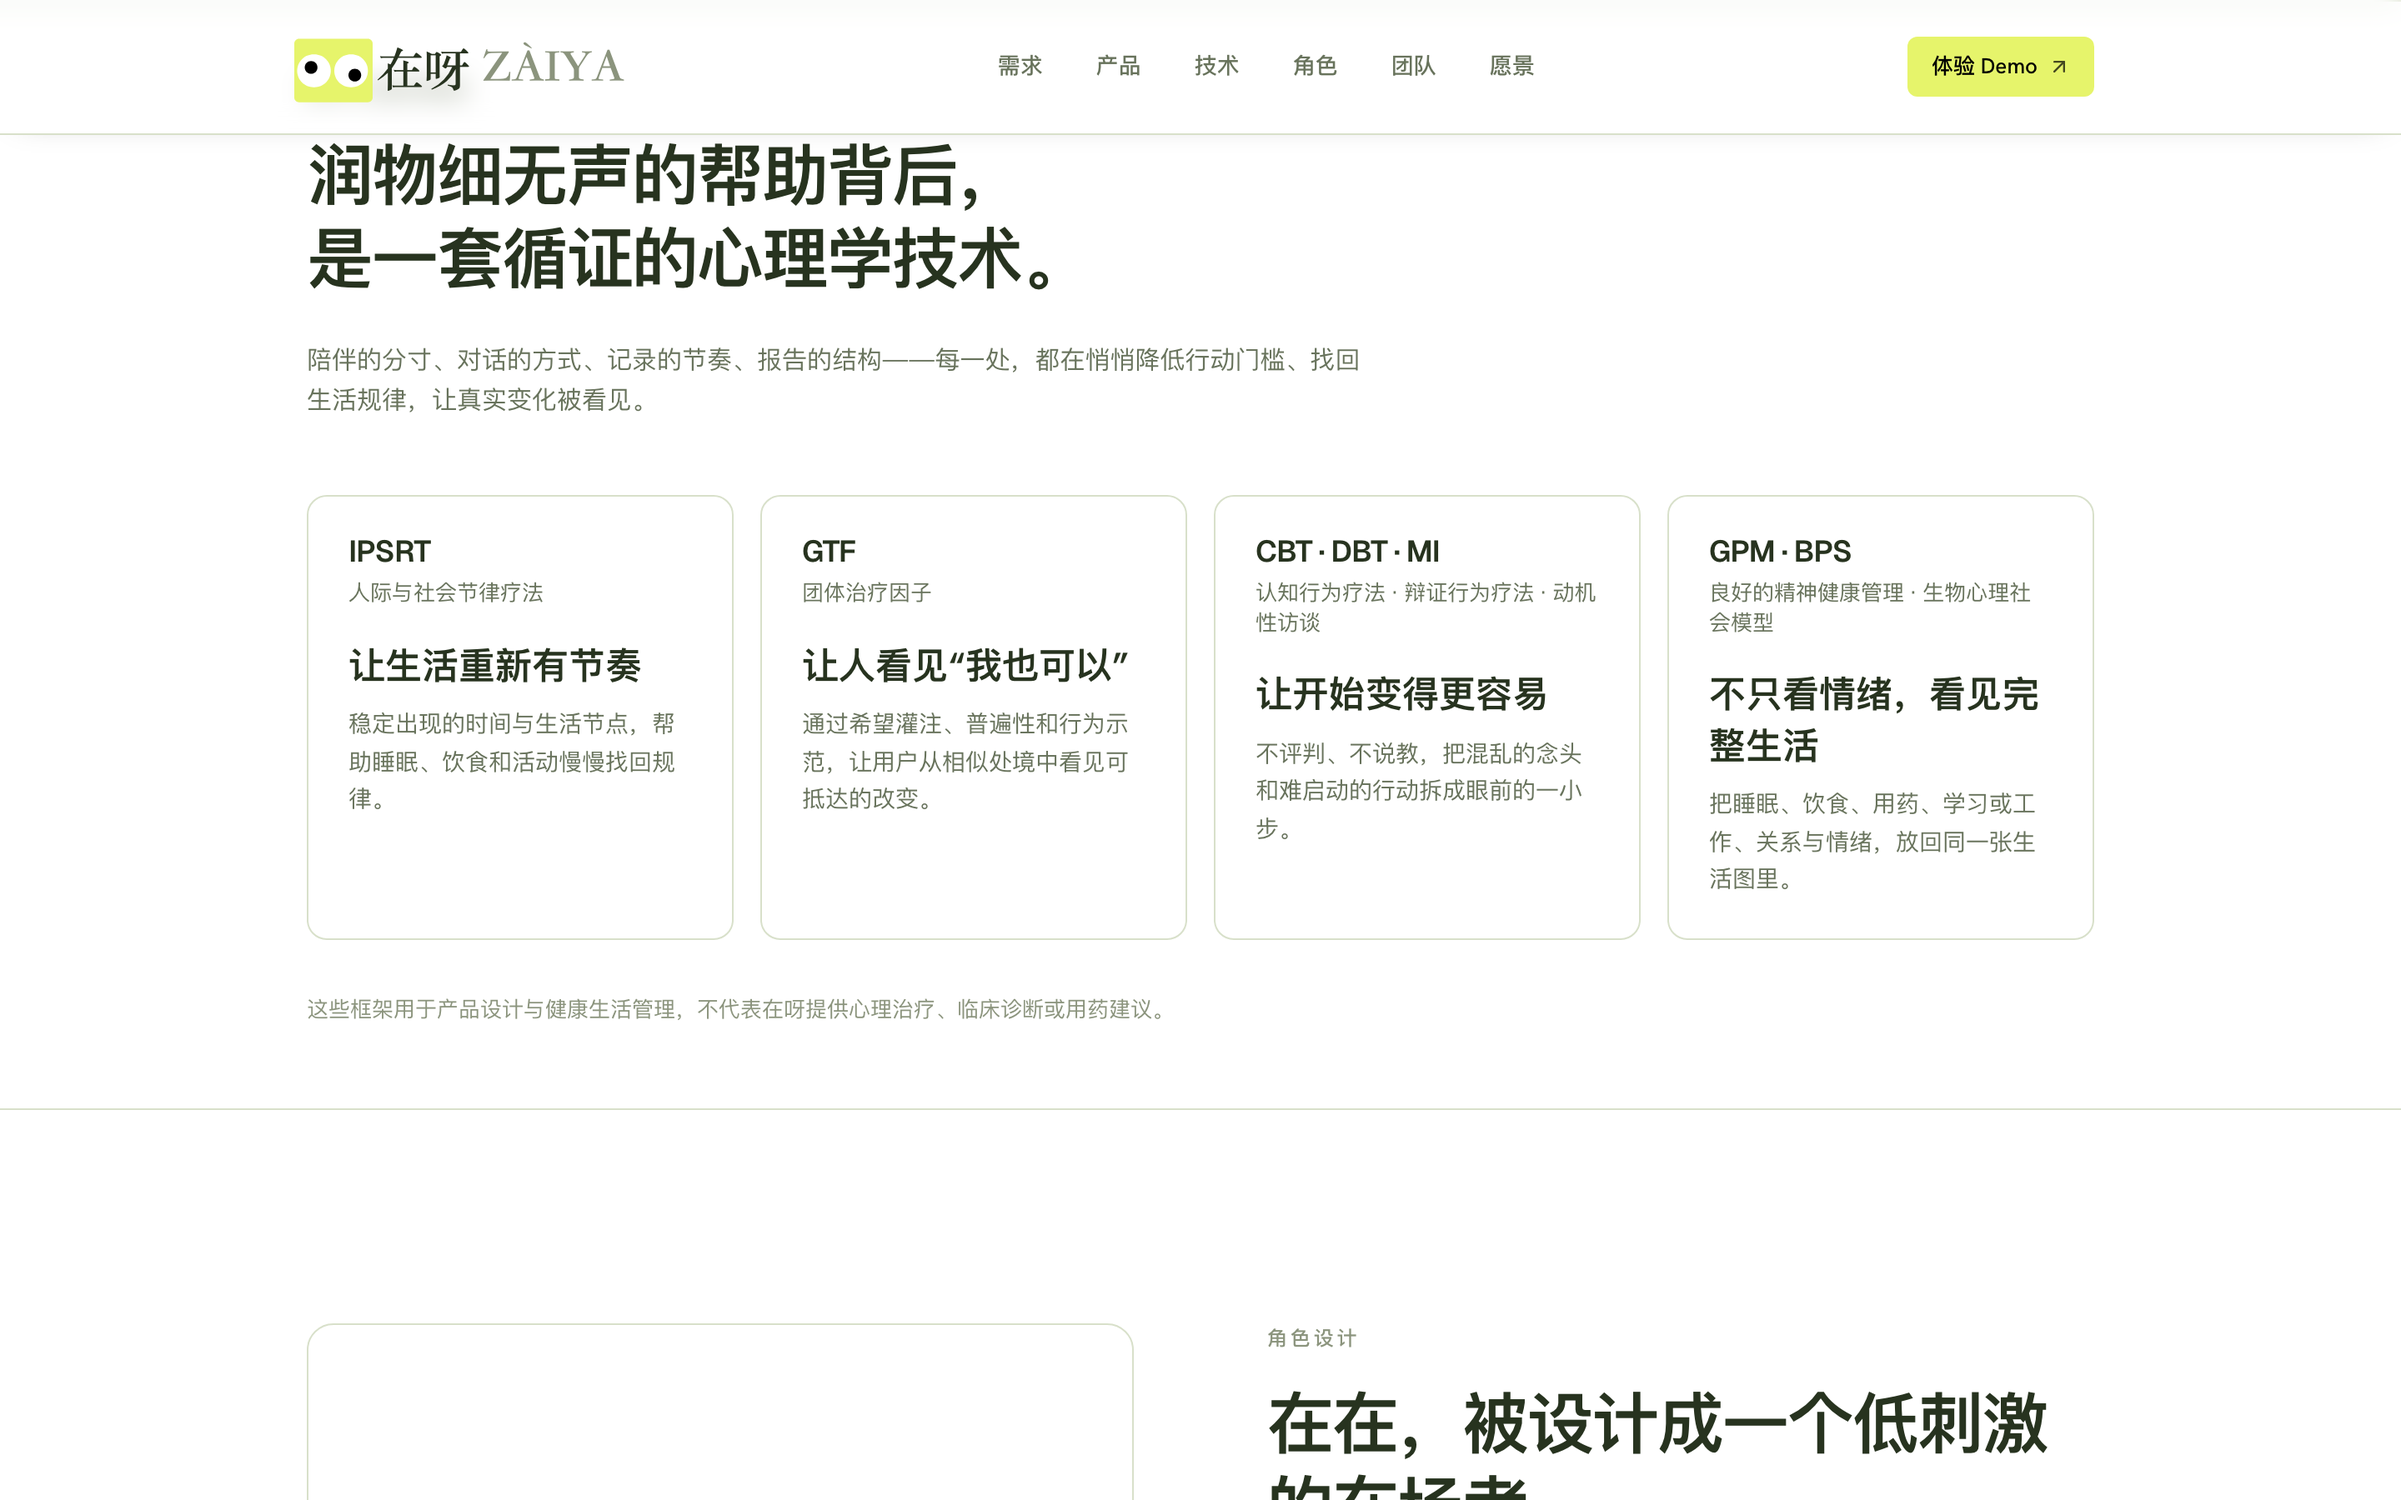
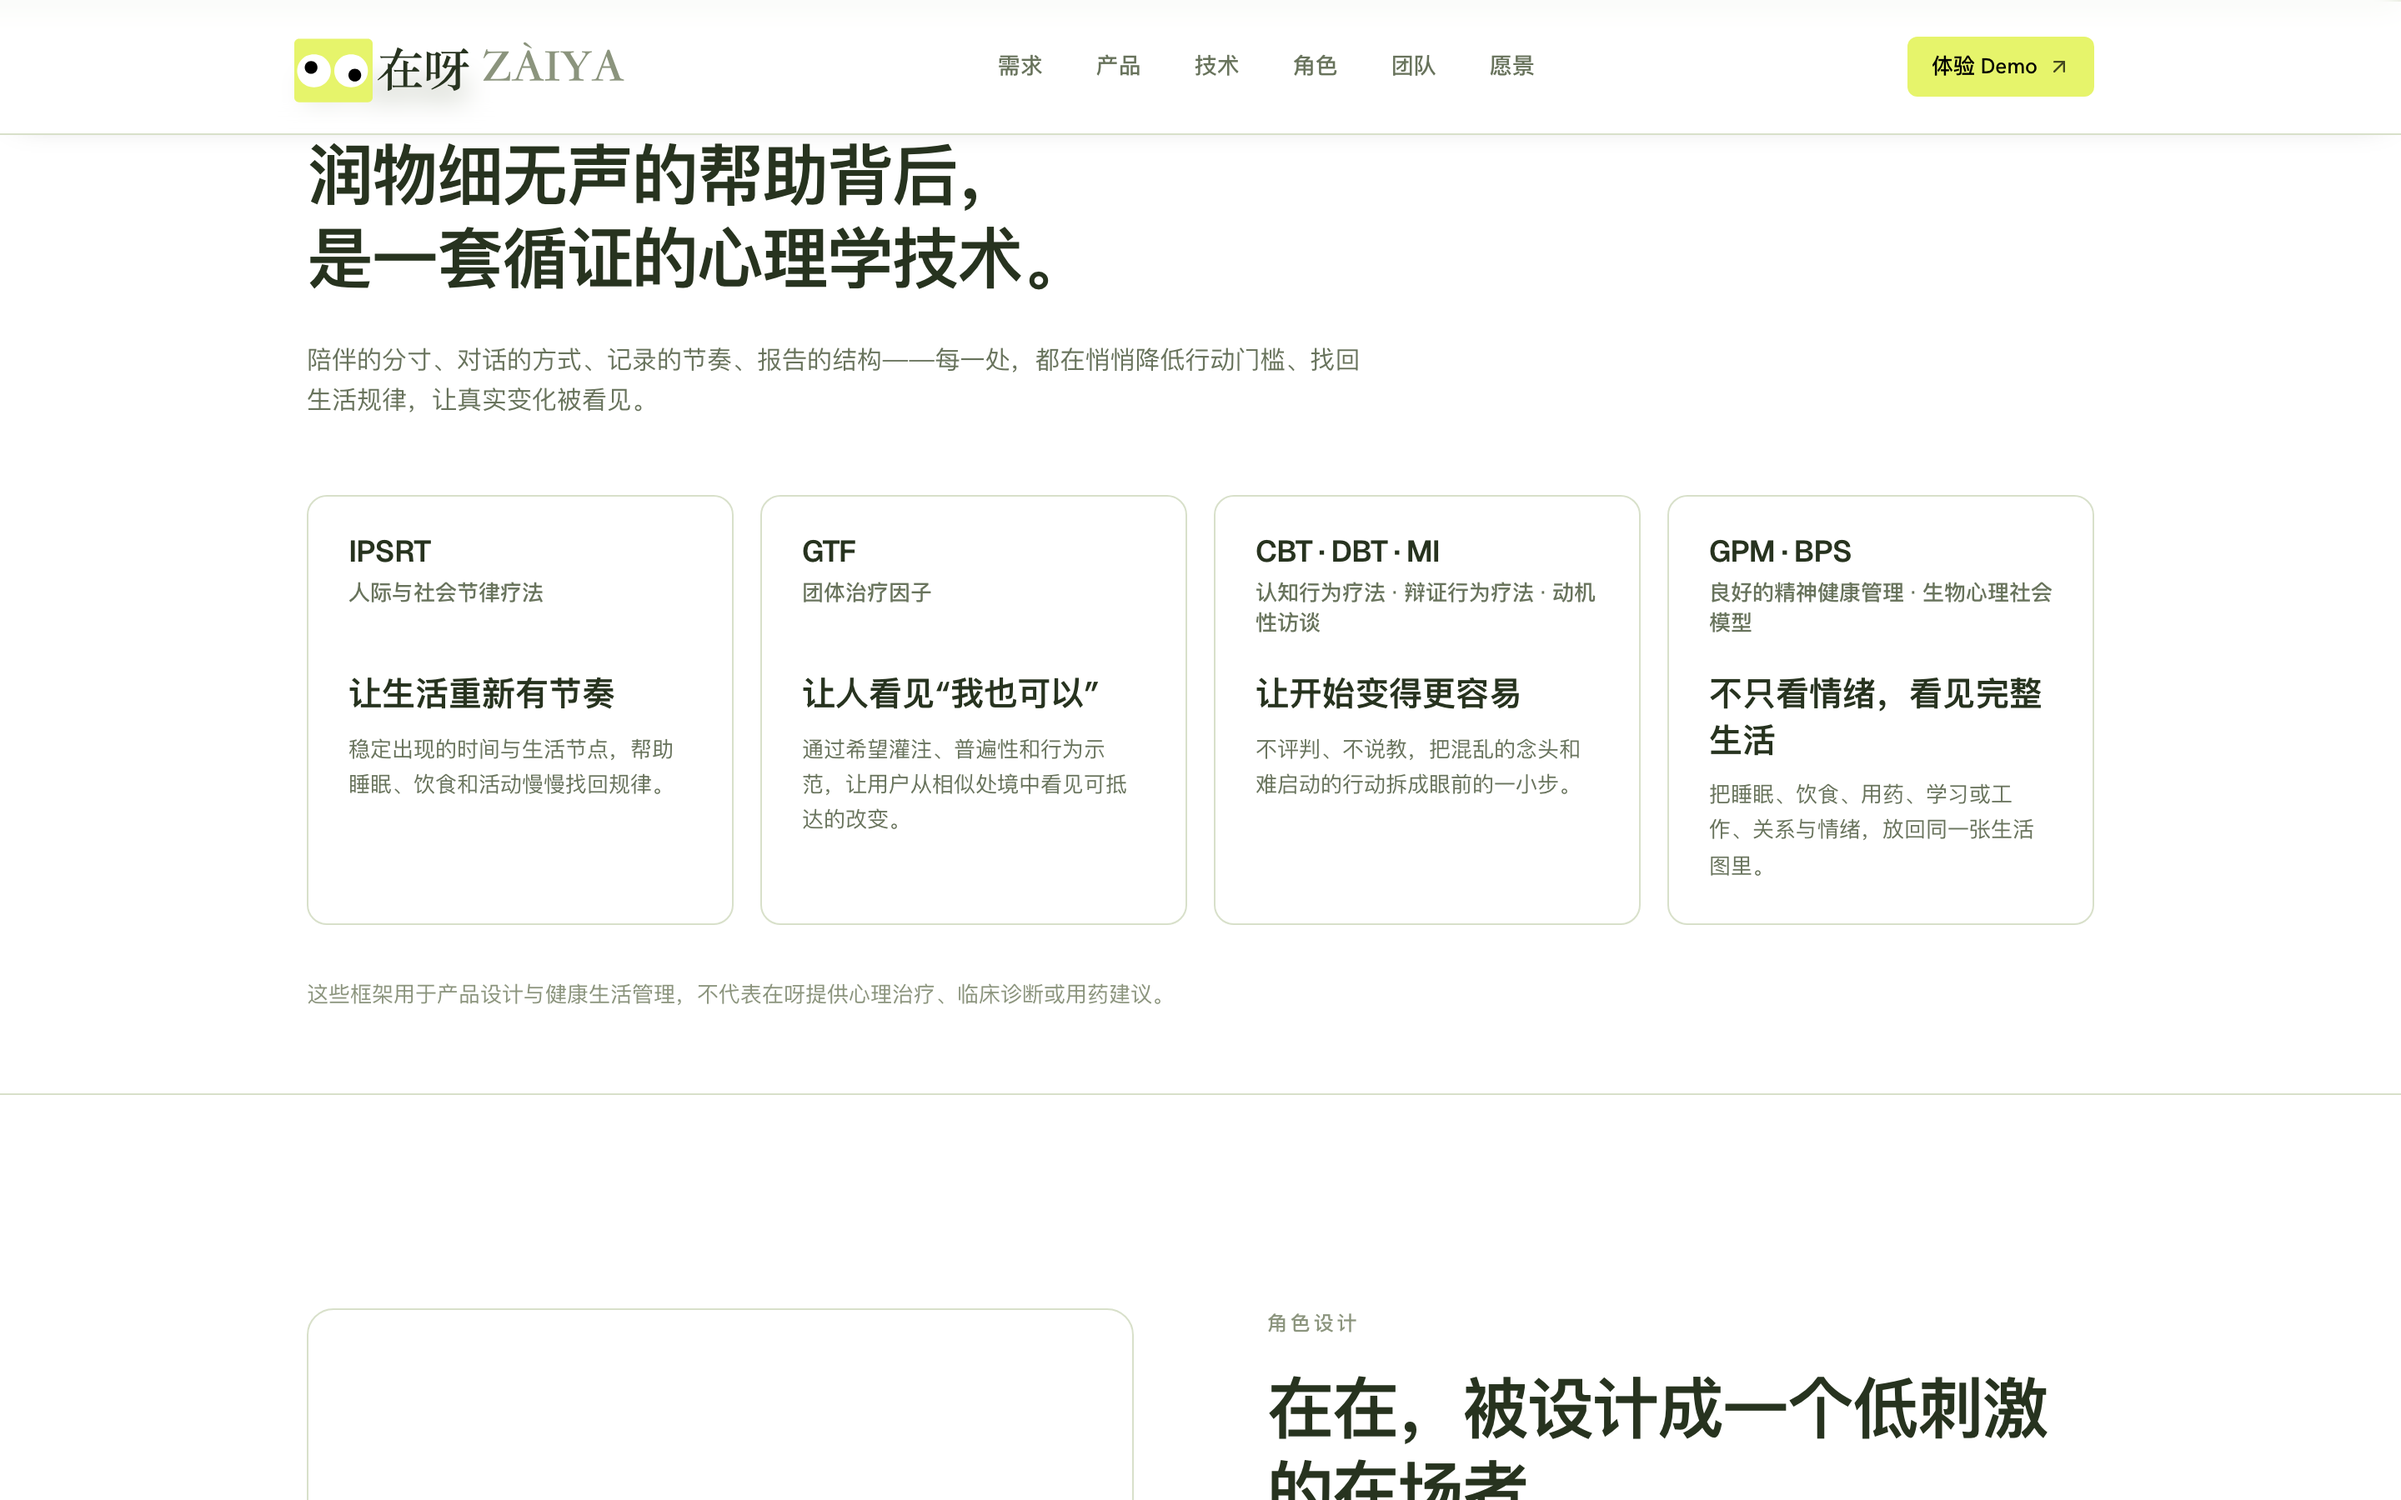
fix(clinical): align card value titles with equal-height header wrapper
四张卡片的「英文缩写 + 中文名称」头部区域使用 min-h-[3.85rem] 等高容器，
消除因中文名称换行导致的价值标题起始位置错位（修复前 1440×900 下
valueTops [385,385,402,402] → 修复后 [403,403,403,403]）。
同时调整价值标题字号 22→20px、说明文字 14→13px、中文名称加 font-medium，
控制卡片总高并强化层级感。刷新三档视口验证截图。

diff --git a/src/components/ClinicalFramework.tsx b/src/components/ClinicalFramework.tsx
@@ -53,16 +53,19 @@ export default function ClinicalFramework() {
           {frameworks.map((f, i) => (
             <Reveal key={f.code} delay={i * 0.08}>
               <article className="flex h-full snap-start flex-col rounded-xl border border-line bg-white px-6 py-6 min-h-[218px] md:snap-none">
-                <h3 className="font-display text-[18px] font-semibold tracking-tight text-ink">
-                  {f.code}
-                </h3>
-                <p className="mt-1.5 text-[13px] leading-snug text-ink-soft">
-                  {f.name}
-                </p>
-                <div className="mt-5 text-[22px] font-semibold leading-snug text-ink">
+                {/* 固定头部高度：容纳最长中文名称两行，保证四张卡片价值标题起始位置一致 */}
+                <div className="min-h-[3.85rem]">
+                  <h3 className="font-display text-[18px] font-semibold tracking-tight text-ink">
+                    {f.code}
+                  </h3>
+                  <p className="mt-1.5 text-[13px] font-medium leading-snug text-ink-soft">
+                    {f.name}
+                  </p>
+                </div>
+                <div className="mt-5 text-[20px] font-semibold leading-snug text-ink">
                   {f.value}
                 </div>
-                <p className="mt-2 text-[14px] leading-relaxed text-ink-soft">
+                <p className="mt-2 text-[13px] leading-relaxed text-ink-soft">
                   {f.note}
                 </p>
               </article>
